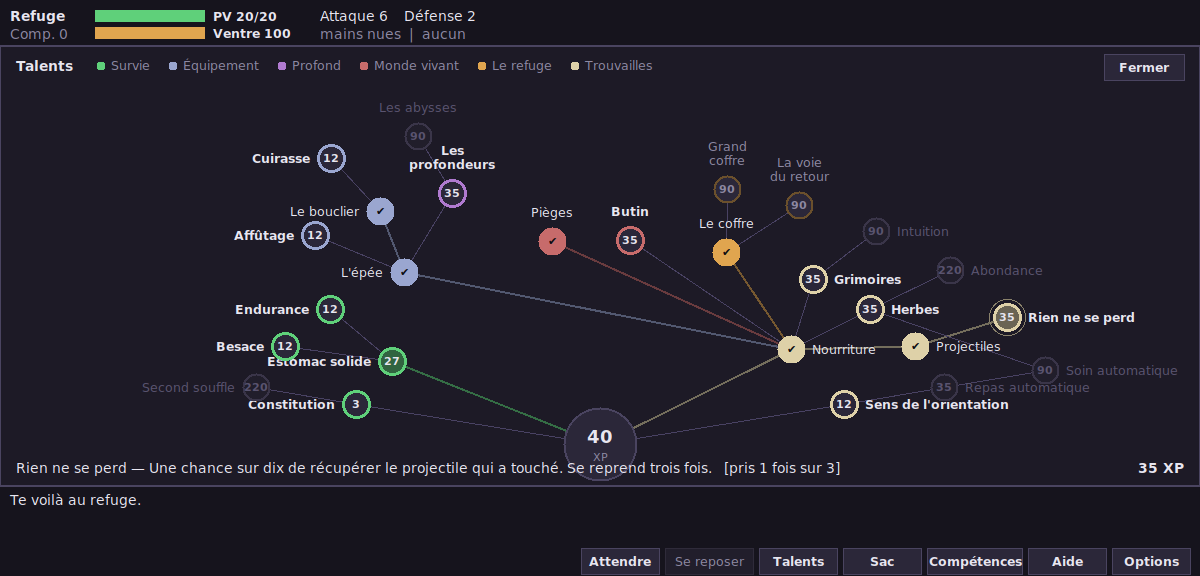
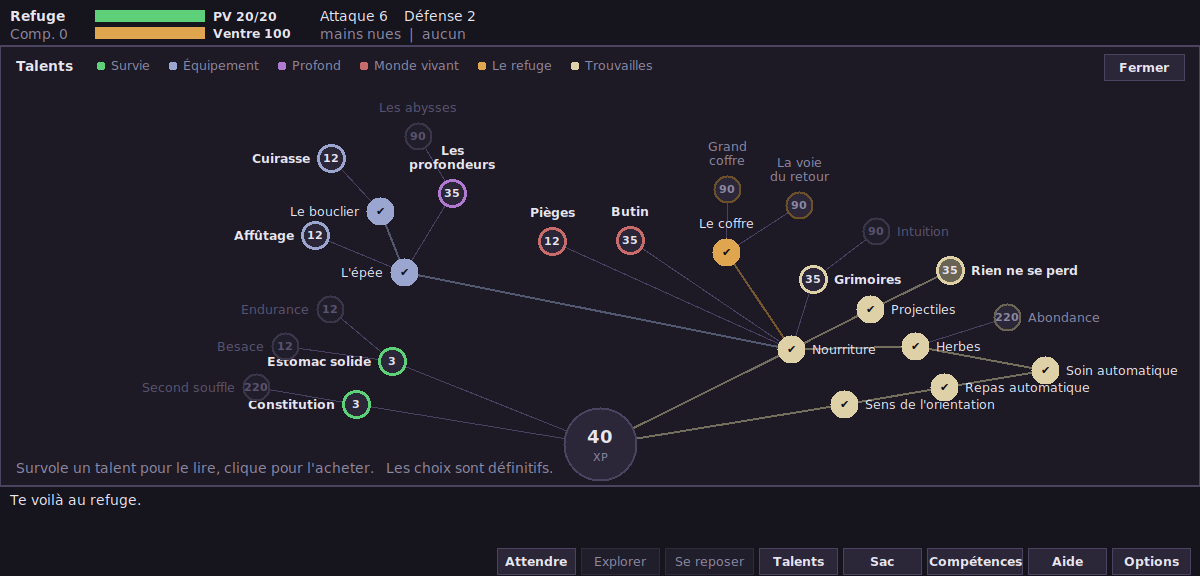
Le dernier trait en travers : un ordre d'affichage par nœud
« Herbes » est le second prérequis du soin automatique, et son trait
traversait toute la branche des trouvailles pour aller le rejoindre — en
coupant celui qui relie les projectiles à « Rien ne se perd ».

L'ordre de `tree.BRANCHES` ne pouvait rien : les deux traits vivent dans
la même branche, où l'ordre vient du rangement par prix puis par nom.
D'où un second levier de même nature, le champ `ordre` d'un nœud, qui le
départage avant le prix. « Herbes » passe après les projectiles, contre
la frontière de la sous-branche où vit le soin automatique.

L'éventail ne compte plus aucun croisement. Le test qui vérifiait que
`BRANCHES` était le moins mauvais ordre possible en exige maintenant
zéro et nomme les traits fautifs quand il tombe.

Claude-Session: https://claude.ai/code/session_018UFaHGxRzxn1yYEEvUBBBk

diff --git a/tests/test_gui.py b/tests/test_gui.py
@@ -258,47 +258,64 @@ class TestRefuge(unittest.TestCase):
                                        2 * RAYON_TALENT + 6,
                                        f"{premier} / {second}")
 
-    def test_l_ordre_des_branches_croise_le_moins_possible(self):
-        """Deux traits qui se croisent donnent un prérequis faux à l'œil.
+    def _croisements(self):
+        """Les paires de traits qui se croisent, nommées par leur nœud."""
+        places = self.fenetre._disposition_talents()
+        traits = self.fenetre.traits_de_talents(places)
+        ou = {place[:2]: cle for cle, place in places.items()}
 
-        La disposition l'interdit à l'intérieur d'une branche — un enfant reste
-        dans la part de son parent. Entre branches, c'est l'ordre de
-        `tree.BRANCHES` qui décide, et il n'existe pas toujours d'ordre sans
-        aucun croisement. Plutôt qu'un seuil choisi au doigt mouillé, on
-        vérifie que l'ordre retenu vaut le meilleur possible : si ce test tombe
-        après l'ajout d'un nœud, c'est qu'un autre ordre ferait mieux, et il
-        est nommé dans le message.
-        """
-        import itertools
-
-        from donjon import tree
         def cote(un, deux, point):
             valeur = ((deux[0] - un[0]) * (point[1] - un[1])
                       - (deux[1] - un[1]) * (point[0] - un[0]))
             return (valeur > 1e-9) - (valeur < -1e-9)
 
-        def croisements():
-            traits = self.fenetre.traits_de_talents(
-                self.fenetre._disposition_talents())
-            total = 0
-            for index, (un, deux, _cle) in enumerate(traits):
-                for autre, (trois, quatre, _autre) in enumerate(traits):
-                    if autre <= index or {un, deux} & {trois, quatre}:
-                        continue
-                    total += (cote(un, deux, trois) * cote(un, deux, quatre) < 0
-                              and cote(trois, quatre, un)
-                              * cote(trois, quatre, deux) < 0)
-            return total
+        paires = []
+        for index, (un, deux, cle) in enumerate(traits):
+            for autre, (trois, quatre, sienne) in enumerate(traits):
+                if autre <= index or {un, deux} & {trois, quatre}:
+                    continue
+                if (cote(un, deux, trois) * cote(un, deux, quatre) < 0
+                        and cote(trois, quatre, un)
+                        * cote(trois, quatre, deux) < 0):
+                    paires.append(f"{ou.get(un, 'cœur')}→{cle} × "
+                                  f"{ou.get(trois, 'cœur')}→{sienne}")
+        return paires
+
+    def test_aucun_trait_de_talent_n_en_croise_un_autre(self):
+        """Deux traits qui se croisent donnent un prérequis faux à l'œil.
+
+        La disposition l'interdit à l'intérieur d'une sous-branche — un enfant
+        reste dans la part de son parent. Restent deux leviers, qui ne changent
+        rien au jeu : l'ordre de `tree.BRANCHES` entre branches, et le champ
+        `ordre` d'un nœud entre voisins. Si ce test tombe après l'ajout d'un
+        nœud, le message nomme les deux traits qui se coupent : c'est l'un de
+        ces deux leviers qu'il faut bouger.
+        """
+        self.fenetre.mode = "talents"
+        self.fenetre.dessiner()
+        paires = self._croisements()
+        self.assertEqual(paires, [], " ; ".join(paires))
+
+    def test_l_ordre_des_branches_croise_le_moins_possible(self):
+        """Aucun autre ordre de branches ne ferait mieux que celui retenu.
+
+        Le test précédent exige zéro croisement ; celui-ci vérifie que l'ordre
+        écrit dans `tree.BRANCHES` reste le bon choix, et nomme le meilleur
+        ordre s'il a cessé de l'être.
+        """
+        import itertools
+
+        from donjon import tree
 
         self.fenetre.mode = "talents"
         self.fenetre.dessiner()
         origine = tree.BRANCHES
         try:
-            actuel = croisements()
+            actuel = len(self._croisements())
             meilleur, ordre = actuel, origine
             for essai in itertools.permutations(origine):
                 tree.BRANCHES = essai
-                compte = croisements()
+                compte = len(self._croisements())
                 if compte < meilleur:
                     meilleur, ordre = compte, essai
         finally:

diff --git a/donjon/tree.py b/donjon/tree.py
@@ -16,7 +16,8 @@ contenu :
 * `repetitions` — combien de fois on peut le reprendre (1 par défaut). Les
   effets d'un nœud repris s'additionnent d'eux-mêmes : le cumul lit la liste
   des achats, pas un ensemble ;
-* `facteur_cout` — de combien son prix grimpe à chaque reprise.
+* `facteur_cout` — de combien son prix grimpe à chaque reprise ;
+* `ordre` — un simple départage d'affichage (voir `BRANCHES`).
 
 Ce dernier point est une règle du jeu, pas un détail : **ce que le héros
 apprend, le donjon l'apprend aussi**. Le nœud qui te donne une épée fait venir
@@ -45,7 +46,7 @@ BASE_VERROUILLEE = {
 class Noeud:
     def __init__(self, key, name, cost, description, branche="", parents=(),
                  effets=None, reglages=None, unlocks=(), objets=(), classes=(),
-                 repetitions=1, facteur_cout=1):
+                 repetitions=1, facteur_cout=1, ordre=0):
         self.key = key
         self.name = name
         self.cost = cost
@@ -59,6 +60,7 @@ class Noeud:
         self.classes = tuple(classes)          # créatures réveillées
         self.repetitions = repetitions         # combien de fois on peut le reprendre
         self.facteur_cout = facteur_cout       # de combien le prix grimpe à chaque reprise
+        self.ordre = ordre                     # départage d'affichage, voir BRANCHES
 
     def accessible(self, acquis):
         return all(parent in acquis for parent in self.parents)
@@ -178,7 +180,8 @@ _enregistrer(
           "Herbes et graines rejoignent les trouvailles. Le donjon apprend "
           "aussi à souffler : des créatures frappent puis se retirent.",
           branche="Trouvailles", parents=("nourriture",), unlocks=("herbes",),
-          classes=("embusque",), effets={"items_per_floor": (1, 1)}),
+          classes=("embusque",), effets={"items_per_floor": (1, 1)},
+          ordre=1),
     Noeud("projectiles", "Projectiles", 35,
           "Des pierres à lancer traînent au sol : de quoi frapper sans "
           "s'approcher. Le donjon apprend à viser aussi : on te tire dessus "
@@ -233,9 +236,13 @@ EFFETS_META = {"coffre_places"}
 #: Il n'a aucun effet sur le jeu, mais il décide des croisements : un nœud dont
 #: le prérequis vit dans une autre branche tire un trait par-dessus tout ce qui
 #: les sépare. Cet ordre-ci n'en laisse aucun (un test le vérifie) ; les trois
-#: premières suivent l'ordre où le joueur les découvre. Un croisement subsiste :
-#: aucun ordre n'en donne moins, l'arbre ayant désormais plus de liens qui
-#: traversent qu'une seule permutation ne peut en démêler.
+#: premières suivent l'ordre où le joueur les découvre.
+#:
+#: À l'intérieur d'une branche, les nœuds se rangent par prix puis par nom.
+#: Quand ce rangement met un trait en travers — « Herbes » est le second
+#: prérequis du soin automatique, et son trait traversait toute la branche pour
+#: aller le rejoindre — le champ `ordre` d'un nœud le décale, sans rien changer
+#: au jeu.
 BRANCHES = ("Survie", "Équipement", "Profond", "Monde vivant", "Le refuge",
             "Trouvailles")
 
@@ -246,7 +253,7 @@ def par_branche():
     for noeud in ARBRE.values():
         groupes.setdefault(noeud.branche, []).append(noeud)
     for noeuds in groupes.values():
-        noeuds.sort(key=lambda n: (n.cost, n.name))
+        noeuds.sort(key=lambda n: (n.ordre, n.cost, n.name))
     return [(branche, groupes[branche]) for branche in BRANCHES
             if groupes.get(branche)]
 

diff --git a/docs/plan-incremental.md b/docs/plan-incremental.md
@@ -855,6 +855,28 @@ Effet cumulé sur le bot, arbre complet : étage **12,3** en moyenne au lieu de
 10,4, maximum **27** au lieu de 19, et la faim ne tue plus que 18 fois sur 40
 au lieu de 21.
 
+### Le dernier trait en travers
+
+Il restait un croisement, et il était visible : « Herbes » est le second
+prérequis du soin automatique, et son trait traversait toute la branche des
+trouvailles pour aller le rejoindre — en coupant au passage celui qui relie les
+projectiles à « Rien ne se perd ».
+
+Jusqu'ici un seul levier décidait des croisements, l'ordre de `tree.BRANCHES`.
+Il ne pouvait rien ici : les deux traits vivent dans la même branche, où l'ordre
+vient du rangement par prix puis par nom — « Herbes » avant « Projectiles »,
+alphabétiquement, alors que le soin automatique l'attend de l'autre côté.
+
+D'où un second levier, de la même nature : le champ `ordre` d'un nœud, qui le
+départage avant le prix. « Herbes » prend `ordre=1` et passe donc après les
+projectiles, contre la frontière de la sous-branche où vit le soin automatique.
+Le trait est devenu court, et **l'éventail ne compte plus aucun croisement**.
+
+Le test qui vérifiait jusqu'ici que `BRANCHES` était le moins mauvais ordre
+possible en exige maintenant zéro, et nomme les deux traits fautifs quand il
+tombe : il y a désormais deux leviers à bouger, et aucun des deux ne touche au
+jeu.
+
 ## Règles fixées en cours de route
 
 **Descendre paie.** L'XP par action est multipliée par
